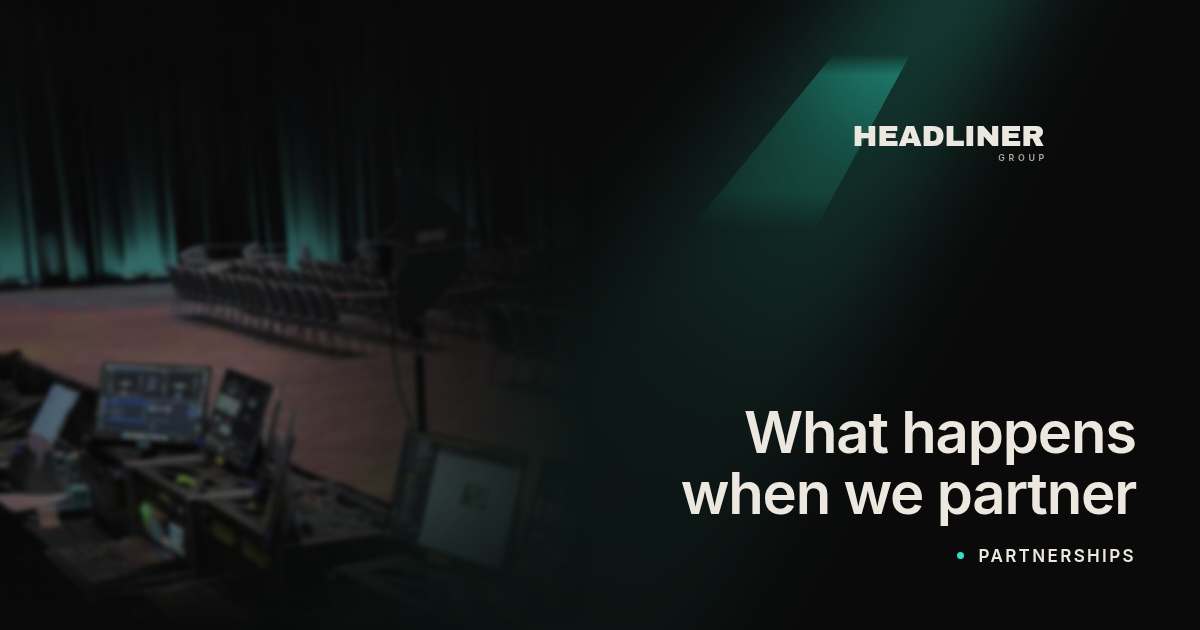
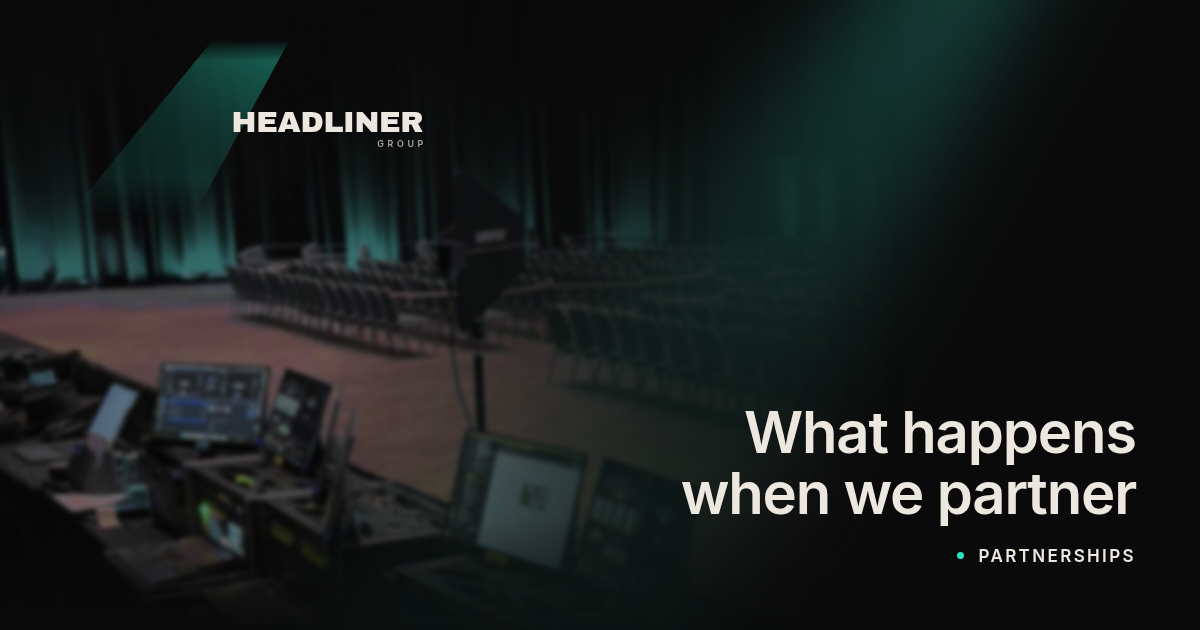
Move the group lockup top left and run the frame to 80 percent
Ryan's call. The lockup now sits top left with the beam bleeding off the
edge exactly as it does in the site header, and the venue shot takes the
width it was previously giving up to the mark.

That put the copy block over a lit floor and a front of house monitor.
The headline dropped to 4.71:1, with the brightest pixel landing under
the first word, so the bottom right corner gets its own pool of shade
inside the masked element. Back to 8.20:1, and the headline narrows to
600px so it stops reaching into the solid part of the frame.

The first pool was too tight to reach the monitor at all and measured
identically to no pool, which is the kind of thing only pixel sampling
catches. A token audit passes this layout either way.

Claude-Session: https://claude.ai/code/session_01DjfMPENav1QLkD66DkX8kr

diff --git a/tools-og/card.html b/tools-og/card.html
@@ -32,14 +32,21 @@
   .rec i{width:7px;height:7px;border-radius:99px;display:block}
 
   /* ---------- Headliner Group ---------- */
-  /* the venue shot is 2400 wide and far lighter than his portrait, so it dissolves
-     earlier or the headline ends up sitting on a wooden floor */
-  .g .photo{--m:linear-gradient(to right,#000 0,#000 34%,transparent 88%),
-                linear-gradient(to top,transparent 0,#000 22%)}
-  .g .photo img{object-position:24% 66%}
+  /* the venue shot runs much further right than his portrait does, so the wordmark
+     goes top left over it the way it does in the site header, and the frame gets the
+     width. It is 2400 wide and far lighter than a portrait, so it needs a heavier
+     scrim under the headline or the copy lands on a lit wooden floor. */
+  .g .photo{width:80%;
+     --m:linear-gradient(to right,#000 0,#000 46%,transparent 94%),
+         linear-gradient(to top,transparent 0,#000 18%)}
+  .g .photo img{object-position:26% 66%}
   .g .photo::after{background:
-       linear-gradient(to bottom,rgba(10,10,10,.62) 0,rgba(10,10,10,.16) 42%,rgba(10,10,10,.40) 100%),
-       linear-gradient(to right,rgba(10,10,10,.30),rgba(10,10,10,.10) 40%,rgba(10,10,10,.55) 100%)}
+       /* the copy block sits over the lit floor and a front of house monitor, so that
+          corner gets its own pool of shade. Widening the frame dropped the headline to
+          4.71:1 without it, with the bright pixel landing under the first word. */
+       radial-gradient(96% 94% at 100% 106%,rgba(10,10,10,.88),rgba(10,10,10,.46) 46%,rgba(10,10,10,0) 88%),
+       linear-gradient(to bottom,rgba(10,10,10,.80) 0,rgba(10,10,10,.42) 22%,rgba(10,10,10,.16) 46%,rgba(10,10,10,.40) 100%),
+       linear-gradient(to right,rgba(10,10,10,.24),rgba(10,10,10,.06) 34%,rgba(10,10,10,.52) 78%,rgba(10,10,10,.62) 100%)}
   /* the site's own hero beam, same construction: blur on the element, clip on ::before */
   .g__beam{position:absolute;top:-260px;right:-130px;width:420px;height:1400px;z-index:1;
         transform:rotate(34deg);transform-origin:top center;filter:blur(46px);
@@ -47,11 +54,12 @@
   .g__beam::before{content:"";position:absolute;inset:0;
         clip-path:polygon(43% 0,57% 0,100% 100%,0 100%);
         background:linear-gradient(to bottom,rgba(45,226,195,.34),rgba(45,226,195,.07) 55%,rgba(45,226,195,0))}
-  /* the stage is 18em by 5.9em at 44px, so scale .68 leaves it 539 by 177 */
-  .g .mark{width:539px;height:177px}
+  /* the stage is 18em by 5.9em at 44px, so scale .68 leaves it 539 by 177. Pulled
+     left so the beam bleeds off the edge the way it does in the bar. */
+  .g .mark{right:auto;left:-24px;top:40px;width:539px;height:177px}
   .g .hl-stage{transform:scale(.68)}
   .g h1{font-family:'Inter',sans-serif;font-weight:600;font-size:58px;line-height:1.05;
-     letter-spacing:-.02em;color:#ECE8E0;margin:0;text-wrap:balance}
+     letter-spacing:-.02em;color:#ECE8E0;margin:0;text-wrap:balance;max-width:600px}
   .g .rec i{background:#2DE2C3}
 
   /* ---------- Ryan Tayler ---------- */

diff --git a/README.md b/README.md
@@ -238,7 +238,9 @@ Every page carries a canonical, the Open Graph set and `twitter:card`, with the 
 
 The five cards in `assets/img/og-*.png` are 1200 by 630 and they are **generated, not drawn**. `tools-og/card.html` links the real stylesheet and uses the real `.hl-stage` markup, so the lockup on the card is the header lockup rather than a redrawing of it, beam and taper included. Re-run `tools-og/gen.js` whenever a page headline changes.
 
-All five share one anatomy. A photograph holds the left and dissolves into the ground on two axes, the mark sits top right, the headline and record sit bottom right. Only the brand changes between them. The group's four use the venue shot already on the home page, the header lockup and the aqua beam. The venue shot is far lighter and wider than the portrait, so it dissolves earlier and takes a heavier right hand scrim, or the headline lands on a wooden floor.
+All five share one anatomy. A photograph holds the left and dissolves into the ground on two axes, with the headline and record bottom right. Only the brand changes. The group's four put the header lockup top left with the beam bleeding off the edge exactly as it does in the bar, run the venue shot to 80 percent of the card, and rake the aqua beam down the right. His keeps the signature top right.
+
+The venue shot is far lighter and wider than his portrait, so it carries its own numbers: an earlier dissolve, a heavier right hand scrim, and a pool of shade in the bottom right corner where the copy sits over a lit floor and a front of house monitor. Without that pool the headline measures 4.71:1, with the bright pixel landing under the first word.
 
 `ryan.html` gets a different card on purpose, built to the anatomy of his LinkedIn banner. Signature as the mark, Caveat kicker, Anton headline and the record, all right aligned, with his portrait holding the left of the frame and dissolving into the ground on two axes, the same move his page hero makes. No round crop. That is a LinkedIn requirement rather than a design decision and it does not belong on a surface with no such rule. His page exists to read as a different business and the card has to do the same job.
 

diff --git a/CONTENT-DECISIONS.md b/CONTENT-DECISIONS.md
@@ -349,11 +349,16 @@ live.
 stylesheet rather than redrawn, so the lockup on the card is the header lockup, beam,
 taper and GROUP alignment included. Ryan's call.
 
-**All five share one anatomy.** A photograph holds the left and dissolves into the ground
-on two axes, the mark sits top right, the headline and the record sit bottom right. What
-changes between them is the brand, which is the point. The group's cards use the venue shot
-already on the home page, the header lockup and the aqua beam. His uses his portrait, his
-signature, the Caveat kicker and a pink bloom.
+**All five share one anatomy.** A photograph holds the left and dissolves into the ground on
+two axes, with the headline and the record bottom right. What changes between them is the
+brand, which is the point. The group's cards use the venue shot already on the home page,
+the header lockup **top left with the beam bleeding off the edge exactly as it does in the
+bar**, and the aqua beam raking down the right. His uses his portrait, his signature top
+right, the Caveat kicker and a pink bloom.
+
+The venue shot runs to 80 percent of the card, so the copy block sits over a lit floor and a
+front of house monitor. It gets its own pool of shade in that corner, without which the
+headline measures 4.71:1 with the bright pixel landing under the first word.
 
 His card is built to the anatomy of **his LinkedIn banner**, at his request. Signature as
 the mark, the Caveat kicker, the Anton headline over three lines and the record underneath,
